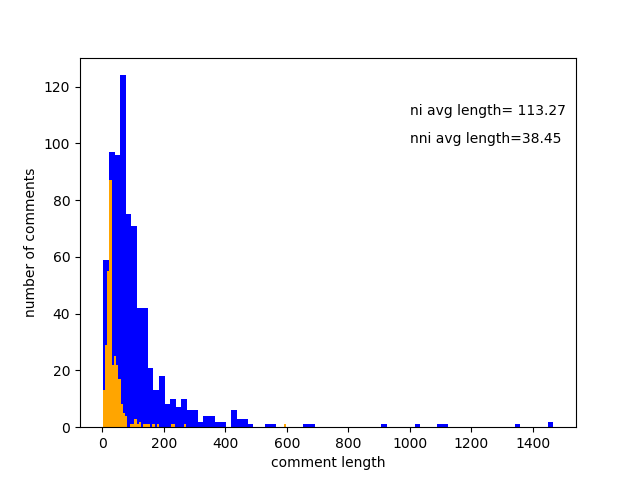
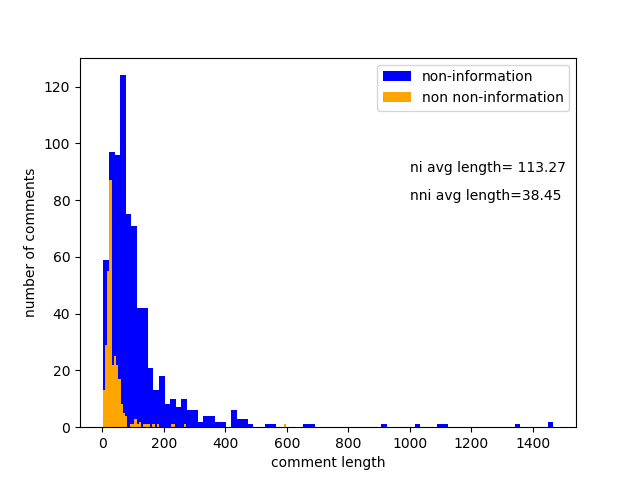
plot legends

Changed region(s): [[0.5938, 0.125, 0.9062, 0.25], [0.625, 0.2812, 0.875, 0.4375]]

diff --git a/src/csv_utils.py b/src/csv_utils.py
@@ -73,8 +73,9 @@ def plot_length():
     plt.hist(sample_nni, bins='auto', color='orange')
     plt.xlabel('comment length')
     plt.ylabel('number of comments')
-    plt.text(1000, 110, 'ni avg length= ' + str(round(sum(sample_ni) / len(sample_ni), 2)))
-    plt.text(1000, 100, 'nni avg length=' + str(round(sum(sample_nni) / len(sample_nni), 2)))
+    plt.legend(['non-information', 'non non-information'])
+    plt.text(1000, 90, 'ni avg length= ' + str(round(sum(sample_ni) / len(sample_ni), 2)))
+    plt.text(1000, 80, 'nni avg length=' + str(round(sum(sample_nni) / len(sample_nni), 2)))
     plt.savefig(img_outpath + 'length_distribution.png')
 
 
